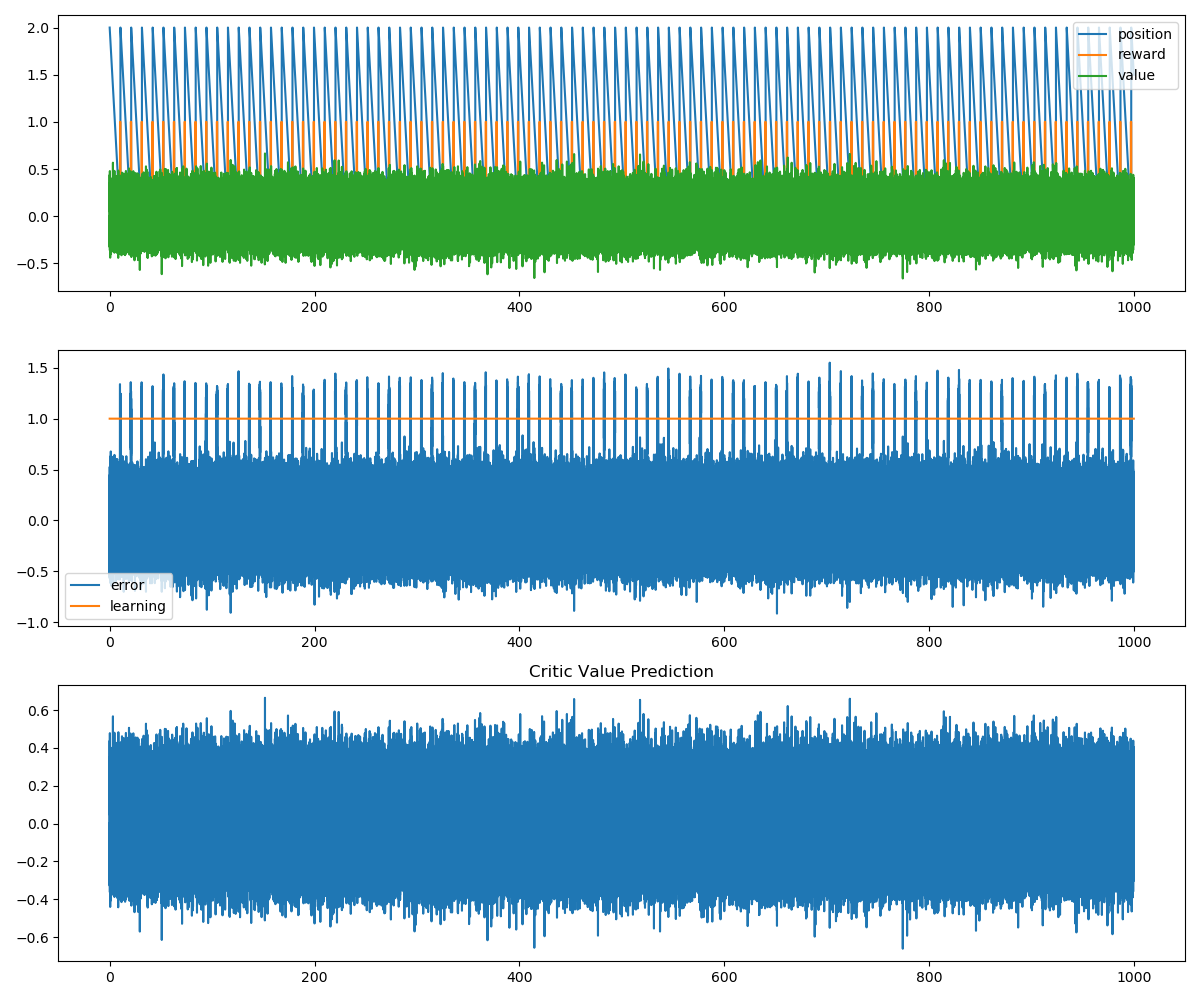
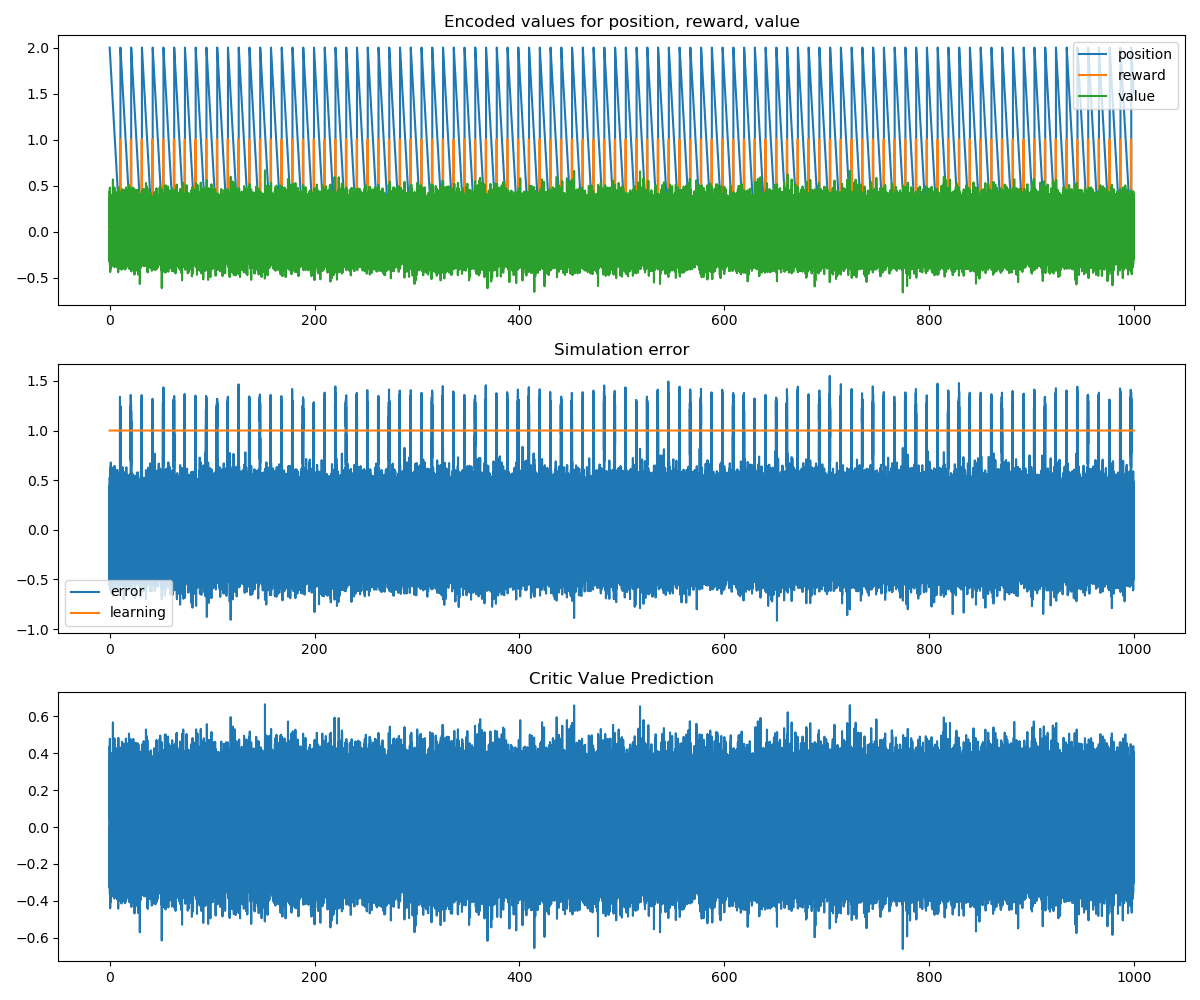
Add titles to plots

diff --git a/code/plotDumps.py b/code/plotDumps.py
@@ -20,11 +20,13 @@ output.mkdir(exist_ok=True)
 
 fig = plt.figure(figsize=(12,10))
 plt.subplot(311)
+plt.title('Encoded values for position, reward, value')
 plt.plot(t, state, label='position')
 plt.plot(t, reward, label='reward')
 plt.plot(t, criticout, label='value')
 plt.legend()
 plt.subplot(312)
+plt.title("Simulation error")
 plt.plot(t, sim_error, label='error')
 plt.plot(t, learnswitch, label='learning')
 plt.legend()
